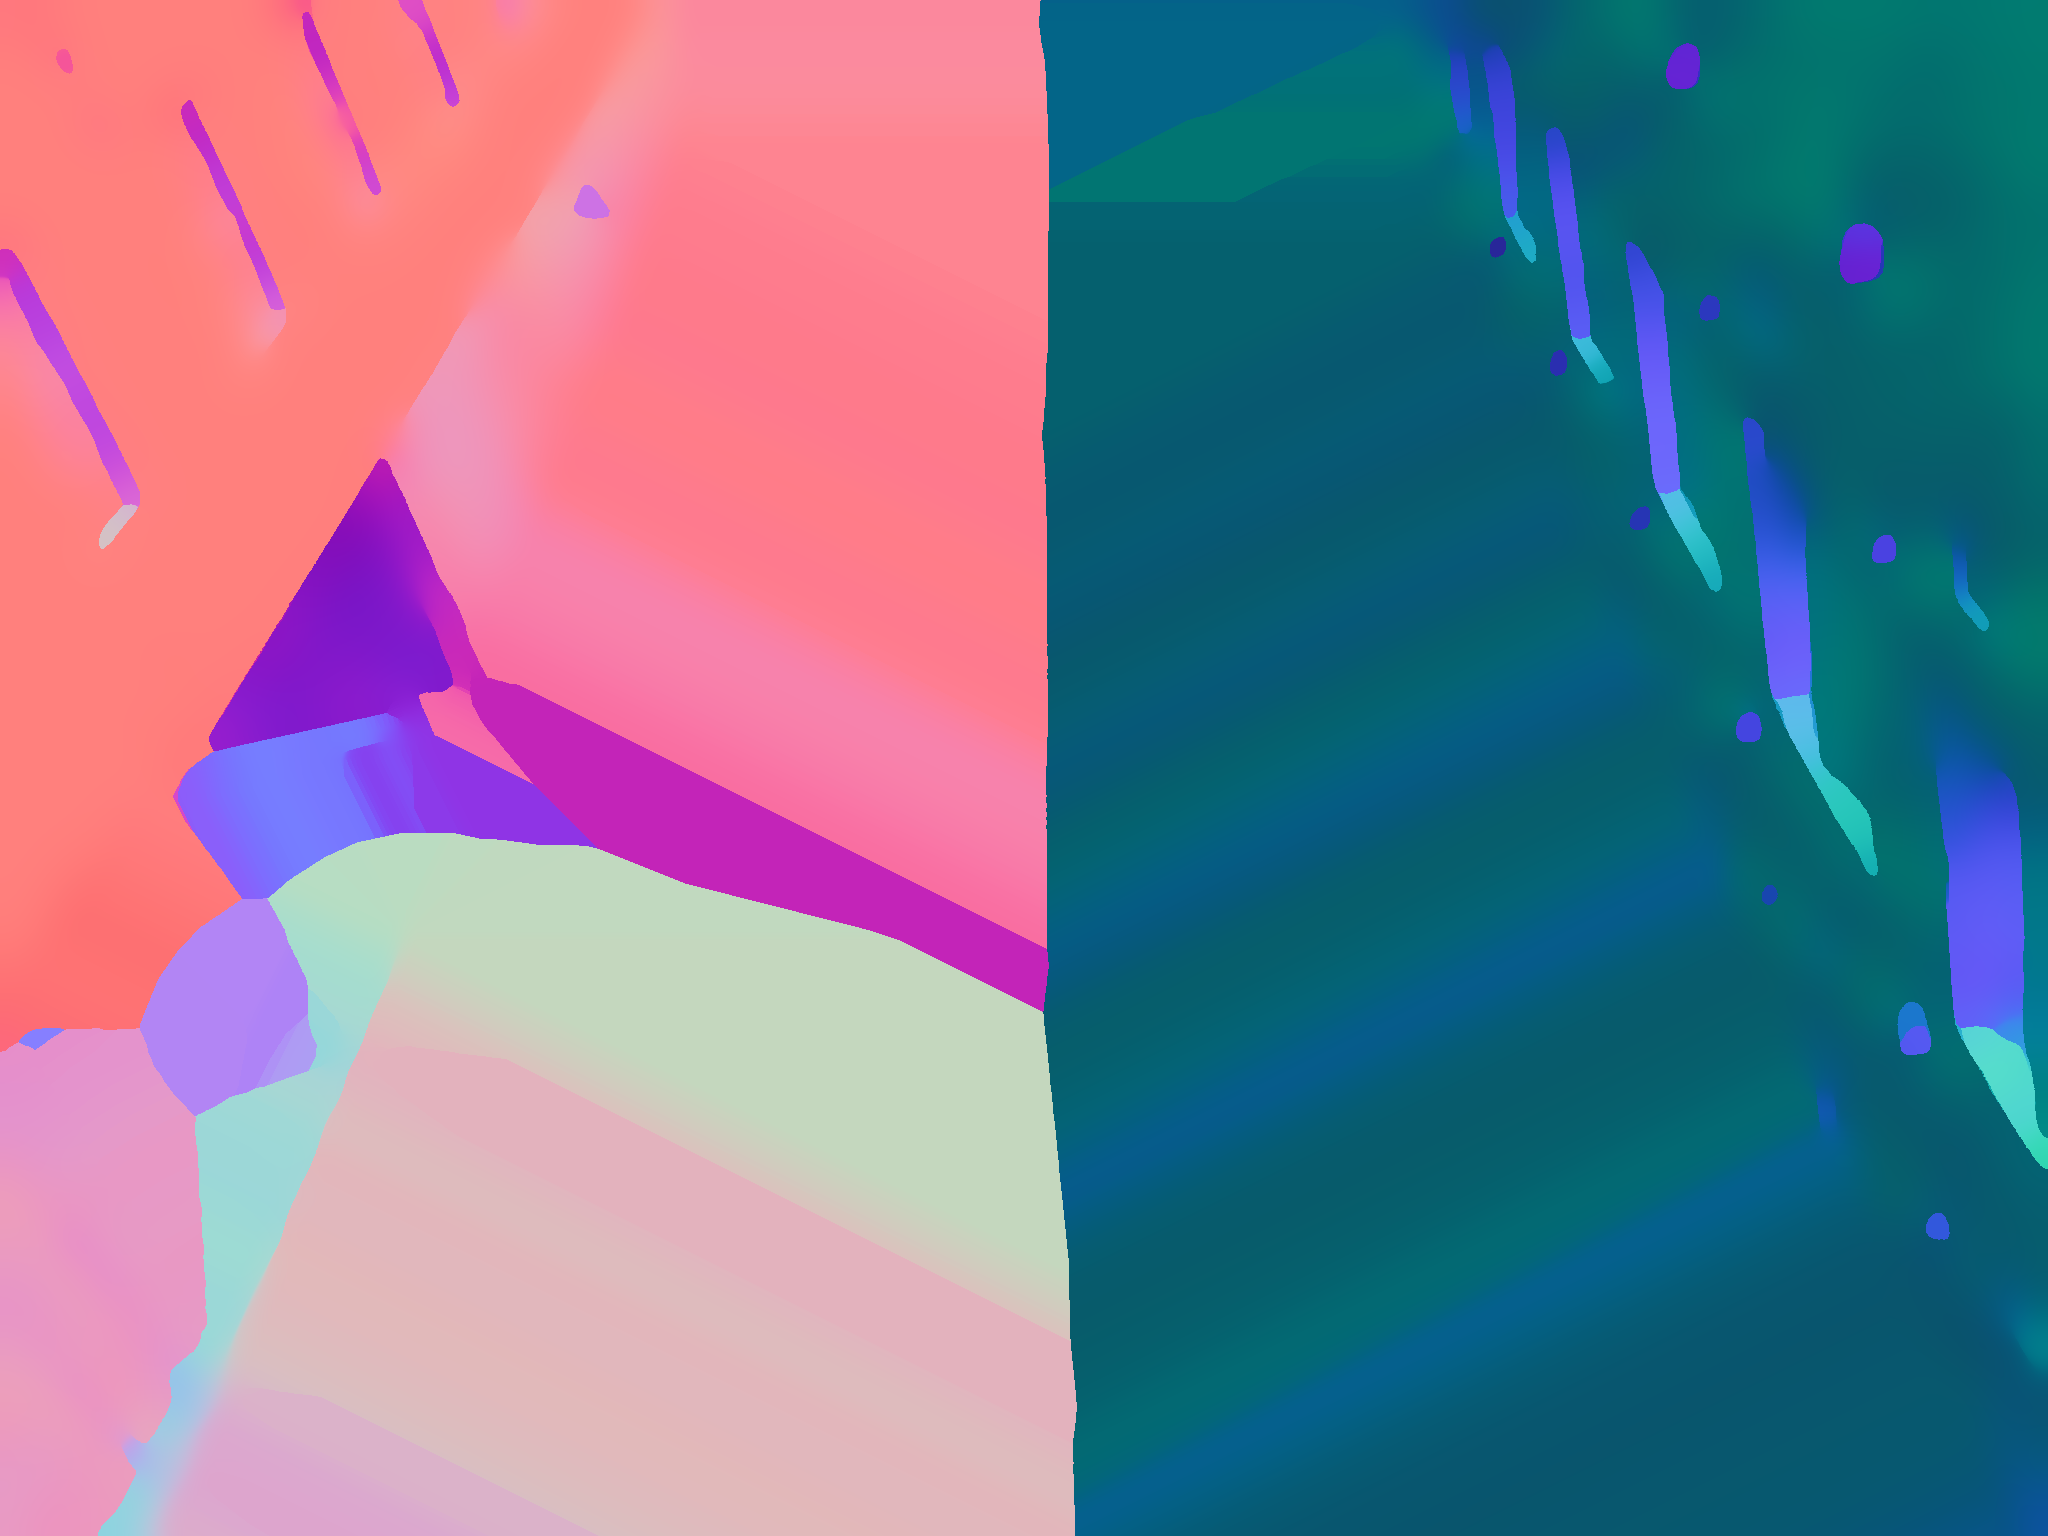
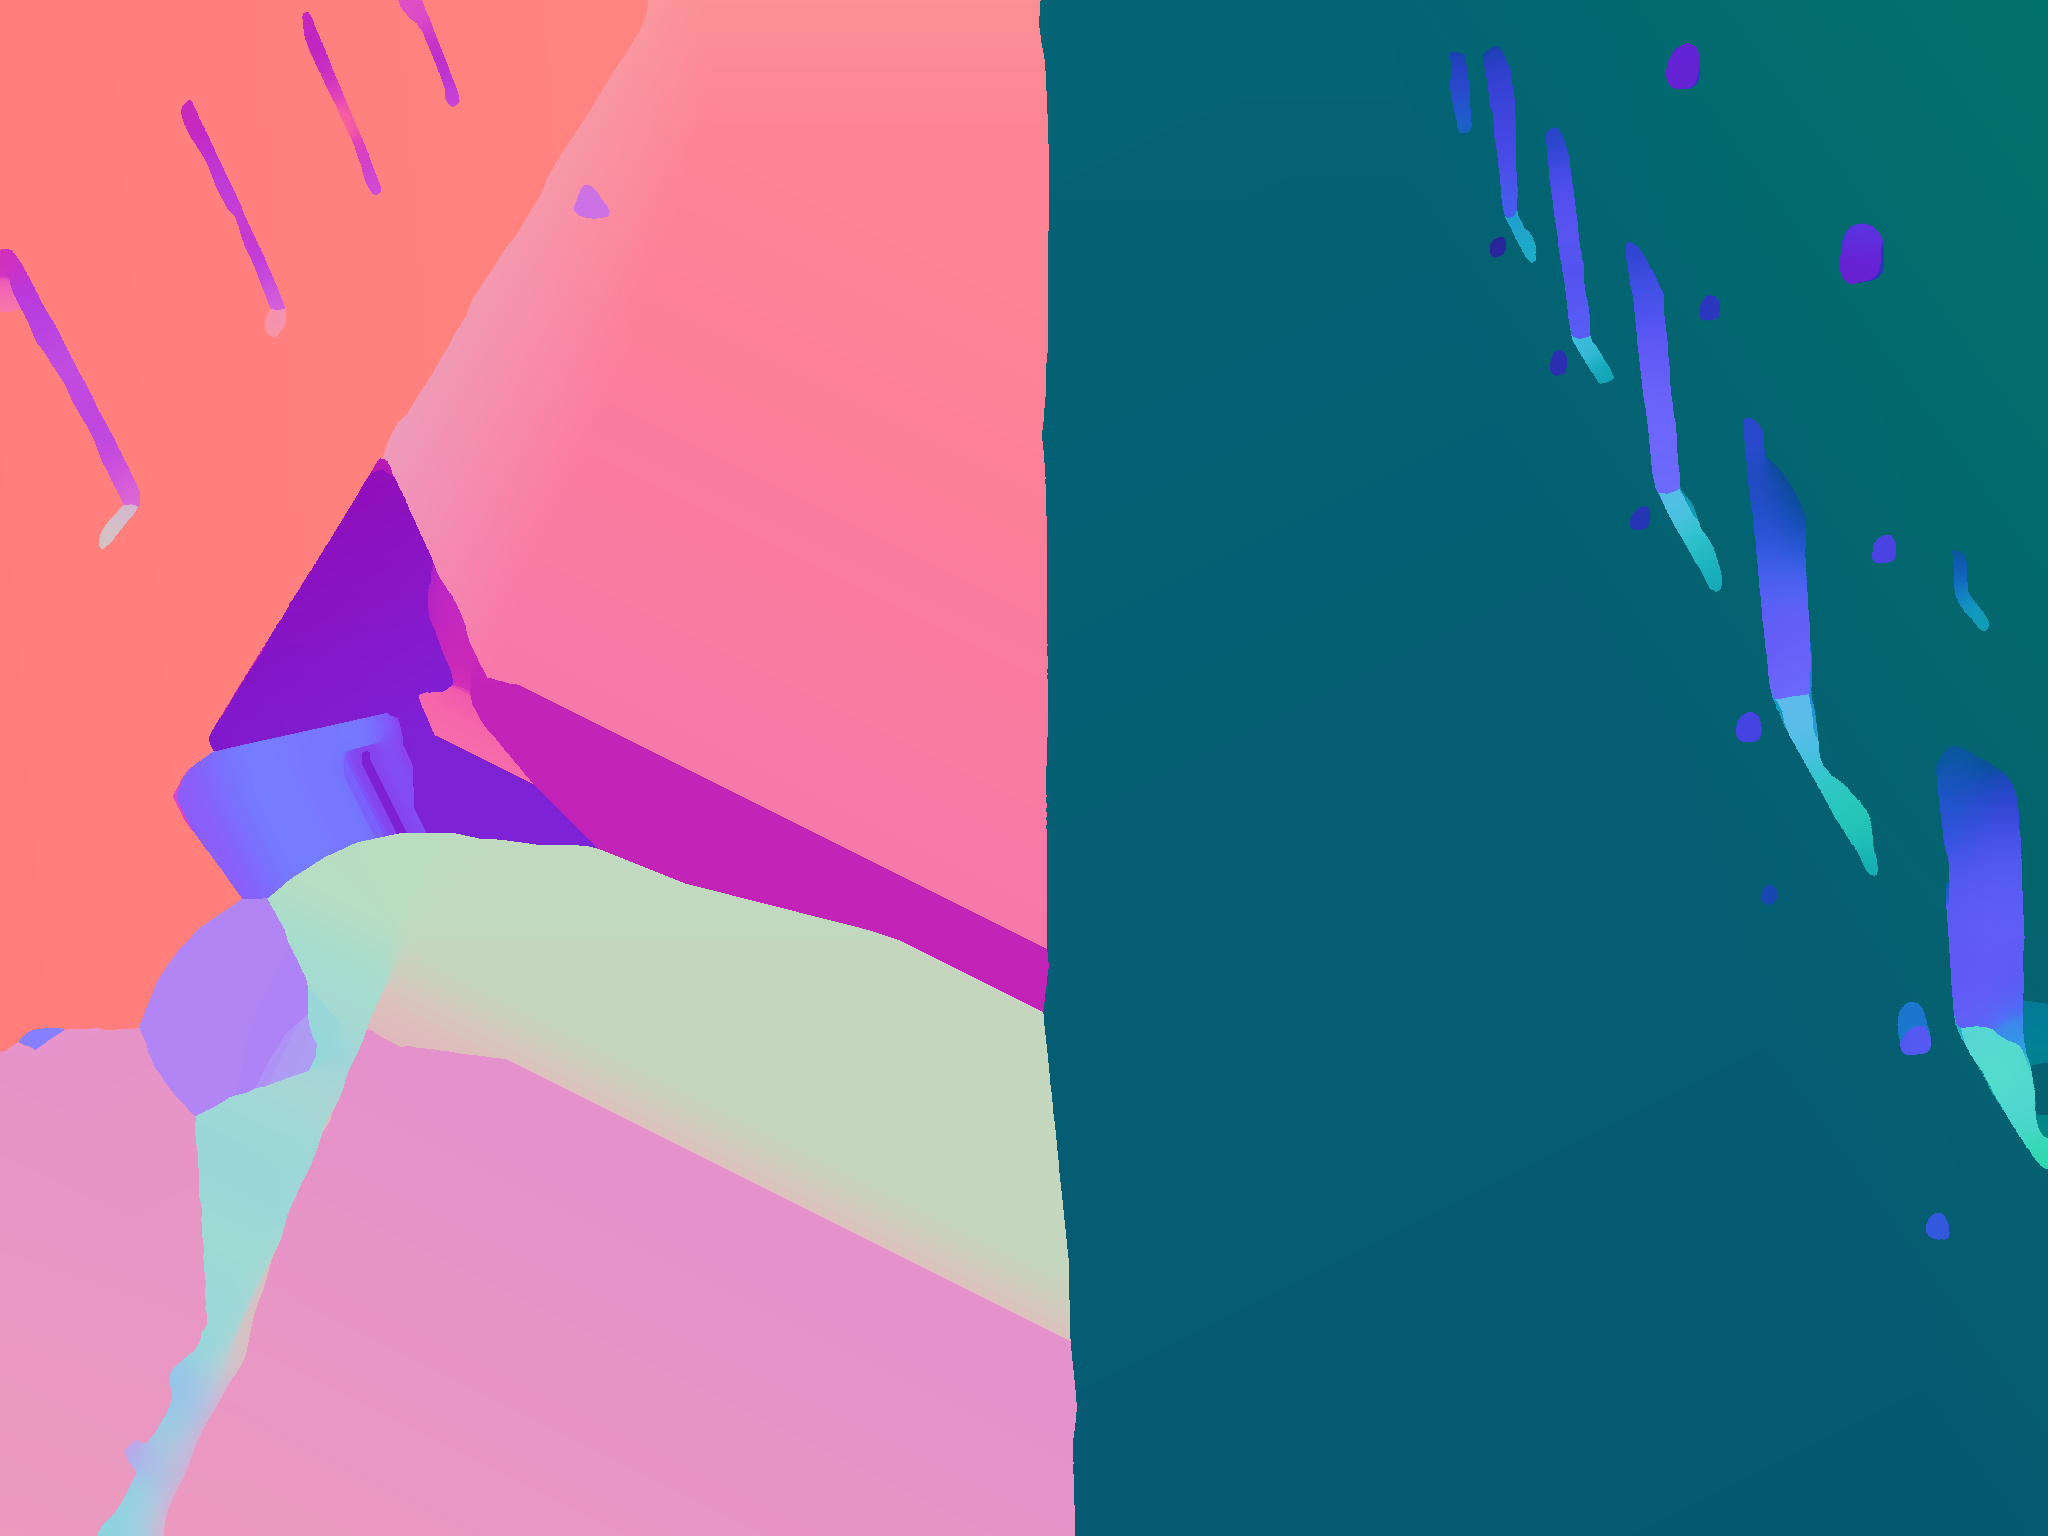
Lab: climb passes round 2
Claude-Session: https://claude.ai/code/session_01RqENhngNCzDFmJWDZueXGV

diff --git a/src/app/lab/passes/passesEngine.js b/src/app/lab/passes/passesEngine.js
@@ -382,16 +382,34 @@ void main(){
   // like cobwebs. Over the tower they come from a coarse mip, so the light
   // turns with its faces, and each member, round, wraps the light further.
   // The walls' come from their own bake (tools/depth/bakes/passes/facades.py),
-  // each face flattened to one plane: MoGe's wander inside a face, a tenth of
-  // a radian, is the whole key when the sun stands edge-on to the walls, and
-  // it lit the left building's louvre face in soft white blots, cloud shapes
-  // that read as the dome seen through the concrete. The folds between faces
-  // (a soffit, a reveal, the louvre's corner) are kept.
+  // each face fitted with one smooth field: MoGe's wander inside a face, a
+  // tenth of a radian, is the whole key when the sun stands edge-on to the
+  // walls, and it lit the facades in soft blots, cloud shapes that read as
+  // the dome seen through the concrete. The folds between faces (a soffit,
+  // a reveal, the louvre's corner) are kept. Every wall pixel takes the bake
+  // whole: a share of MoGe's own normal kept wherever the depth was not
+  // quite flat (most of a facade, at the depth's resolution) carried its
+  // wander back into the key. MoGe comes back only inside a real fold.
   float bend = (dp.b - 0.5) * 2.0;
   float plane = 1.0 - smoothstep(0.03, 0.08, abs(bend));
-  vec3 n = texture(uNormal, uv).rgb * 2.0 - 1.0;
-  n = mix(n, texture(uFacade, uv).rgb * 2.0 - 1.0, (1.0 - tower) * mix(0.6, 1.0, plane));
-  n = normalize(mix(n, textureLod(uNormal, uv, 4.5).rgb * 2.0 - 1.0, tower * 0.9));
+  float fold = smoothstep(0.08, 0.2, abs(bend)) * (1.0 - tower);
+  vec3 nM = texture(uNormal, uv).rgb * 2.0 - 1.0;
+  vec3 nF = texture(uFacade, uv).rgb * 2.0 - 1.0;
+  // Edge-on, what is left of the bake's own wander is still the whole key:
+  // as the sun comes within ten degrees of a face, the face's normal is
+  // read sixteen times coarser, so the key runs as one smooth gradient
+  // across it. Not at a corner or a reveal, where the coarse read and the
+  // sharp one part: those keep their step.
+  vec3 nF4 = textureLod(uFacade, uv, 4.0).rgb * 2.0 - 1.0;
+  float edge = length(nF - nF4);
+  float graze = (1.0 - smoothstep(0.1, 0.2, abs(dot(normalize(nF4), uSun)))) * (1.0 - smoothstep(0.015, 0.04, edge));
+  nF = mix(nF, nF4, graze);
+  // A fold is where the depth steps and the bake turns with it: the depth's
+  // bend alone runs wide of a fixture, and kept MoGe in a ring round it.
+  fold *= smoothstep(0.03, 0.1, edge);
+  vec3 nWall = mix(nF, nM, 0.4 * fold);
+  vec3 nTower = mix(nM, textureLod(uNormal, uv, 4.5).rgb * 2.0 - 1.0, 0.9);
+  vec3 n = normalize(mix(nWall, nTower, tower));
   float wrap = mix(0.08, 0.4, tower);
 
   // No cast shadows: the depth map only holds what the camera saw, so a
@@ -710,7 +728,7 @@ export async function createPasses(host) {
   tex(lattice, 5, "uLattice", true);
   tex(steel, 7, "uSteel", true);
   tex(wall, 9, "uWall", true);
-  tex(facade, 12, "uFacade", false);
+  tex(facade, 12, "uFacade", true);
 
   // The sky dome's two layers: azimuth repeats, and anisotropic filtering
   // where the GPU has it, since the equirect stretches across toward the

diff --git a/tools/depth/bakes/passes/facades.py b/tools/depth/bakes/passes/facades.py
@@ -14,7 +14,10 @@
 # normals themselves, wide in space and narrow in angle: a fold between two
 # faces (the soffit under the overhang, a window's reveal, the louvre's
 # corner) is a step of half a radian or more and stays a step; the wander
-# inside a face is less and is averaged out. Only the walls are read: the
+# inside a face is less and is averaged out. What the filter cannot reach,
+# a swell a few hundred px across, goes with a fit: each face is found by
+# clustering and given one affine field of normals across the image (see
+# below). Only the walls are read: the
 # sky and the tower are pushed out of range, so a face's edge does not take
 # the sky's normal (straight at the camera), and after the passes the sky is
 # filled with the nearest wall's normal, so the shader's linear filtering at
@@ -53,6 +56,103 @@ for _ in range(PASSES):
     g = cv2.bilateralFilter(g, d=int(SPACE * 2) | 1, sigmaColor=ANGLE, sigmaSpace=SPACE)
     f = np.where(wall[..., None], g, n)
 f /= np.maximum(np.linalg.norm(f, axis=2, keepdims=True), 1e-4)
+
+# The filter takes out MoGe's wander up to its reach, about 50 px; past that
+# it is left, a slow swell of a tenth of a radian a few hundred px across,
+# and with the sun edge-on to the walls that swell was the whole key: soft
+# lit and dark patches on the right facade's upper half and the left
+# building's top face, the dome's clouds seen through the concrete again. So
+# each face is found and given one smooth field: the walls' normals are
+# clustered, each cluster split into its connected pieces, and neighbouring
+# pieces that face within FACE_ANGLE of each other joined into one face.
+# Every face larger than FACE_AREA gets a least-squares affine fit of its
+# normal across the image, which holds a plane's constant normal and the
+# gentle curve of the right facade (or the lens's), and nothing in between.
+# Smaller pieces (a reveal, the glass at the back of a window) keep the
+# filtered normal. The pole is curved across its width: a face whose fit
+# swings faster than FACE_SWING per image width is left as filtered.
+FACE_K = 12
+FACE_ANGLE = 0.22
+FACE_AREA = 20000
+FACE_SWING = 4.0
+H, W = wall.shape
+cv2.setRNGSeed(7)
+_, km, _ = cv2.kmeans(f[wall].astype(np.float32), FACE_K, None,
+                      (cv2.TERM_CRITERIA_EPS + cv2.TERM_CRITERIA_MAX_ITER, 50, 1e-4), 4, cv2.KMEANS_PP_CENTERS)
+cl = np.full((H, W), -1, np.int32)
+cl[wall] = km.ravel()
+reg = np.zeros((H, W), np.int32)
+nxt = 1
+for k in range(FACE_K):
+    cnt, lab = cv2.connectedComponents((cl == k).astype(np.uint8), connectivity=4)
+    reg[lab > 0] = lab[lab > 0] + nxt - 1
+    nxt += cnt - 1
+area = np.bincount(reg.ravel(), minlength=nxt).astype(np.float64)
+mean = np.stack([np.bincount(reg.ravel(), weights=f[..., i].ravel(), minlength=nxt) for i in range(3)], 1)
+mean /= np.maximum(area, 1)[:, None]
+parent = np.arange(nxt)
+
+
+def root(a):
+    while parent[a] != a:
+        parent[a] = parent[parent[a]]
+        a = parent[a]
+    return a
+
+
+pairs = set()
+for a, b in ((reg[:, :-1], reg[:, 1:]), (reg[:-1, :], reg[1:, :])):
+    m = (a != b) & (a > 0) & (b > 0)
+    pairs.update(map(tuple, np.unique(np.stack([a[m], b[m]], 1), axis=0)))
+# Most alike first, with each face's mean kept as pieces join it.
+for a, b in sorted(pairs, key=lambda p: np.linalg.norm(mean[p[0]] - mean[p[1]])):
+    x, y = root(a), root(b)
+    if x != y and np.linalg.norm(mean[x] - mean[y]) < FACE_ANGLE:
+        mean[x] = (mean[x] * area[x] + mean[y] * area[y]) / (area[x] + area[y])
+        area[x] += area[y]
+        parent[y] = x
+face = np.array([root(i) for i in range(nxt)])[reg]
+face[~wall] = 0
+yy, xx = np.mgrid[0:H, 0:W].astype(np.float64) / W
+fit = f.astype(np.float64)
+coef = {}
+for r in np.unique(face):
+    m = face == r
+    if r == 0 or m.sum() < FACE_AREA:
+        continue
+    A = np.stack([np.ones(m.sum()), xx[m], yy[m]], 1)
+    keep = np.ones(m.sum(), bool)
+    # Twice, the second time without the pixels the first fit missed by
+    # far (a fold's soft edge, a fixture on the face).
+    for _ in range(2):
+        c, *_ = np.linalg.lstsq(A[keep], f[m][keep], rcond=None)
+        res = np.linalg.norm(A @ c - f[m], axis=1)
+        keep = res < max(2.5 * np.median(res), 0.02)
+    if np.abs(c[1:]).max() > FACE_SWING:
+        continue
+    fit[m] = A @ c
+    coef[r] = c
+# The clusters leave pockets on a face, a few thousand px where the wander
+# ran past a cluster's edge, and a soft ring round each fixture where the
+# filter eased from the face into it: each pocket takes the nearest face's
+# field wherever that field agrees with it to within POCKET_ANGLE. A
+# reveal or a fixture, turned further from the face than that, keeps its own.
+POCKET_ANGLE = 0.35
+fitted = np.isin(face, list(coef))
+_, near = cv2.distanceTransformWithLabels((~fitted).astype(np.uint8), cv2.DIST_L2, 5, labelType=cv2.DIST_LABEL_PIXEL)
+idx = np.zeros(near.max() + 1, np.int64)
+idx[near[fitted]] = np.flatnonzero(fitted.ravel())
+nearest = face.ravel()[idx[near.ravel()]].reshape(H, W)
+for r, c in coef.items():
+    m = wall & ~fitted & (nearest == r)
+    if not m.any():
+        continue
+    g = np.stack([np.ones(m.sum()), xx[m], yy[m]], 1) @ c
+    ok = np.linalg.norm(g - f[m], axis=1) < POCKET_ANGLE
+    sub = fit[m]
+    sub[ok] = g[ok]
+    fit[m] = sub
+f = (fit / np.maximum(np.linalg.norm(fit, axis=2, keepdims=True), 1e-4)).astype(np.float32)
 
 # Everything that is not wall takes its nearest wall pixel's normal.
 _, lab = cv2.distanceTransformWithLabels((~wall).astype(np.uint8), cv2.DIST_L2, 5, labelType=cv2.DIST_LABEL_PIXEL)
